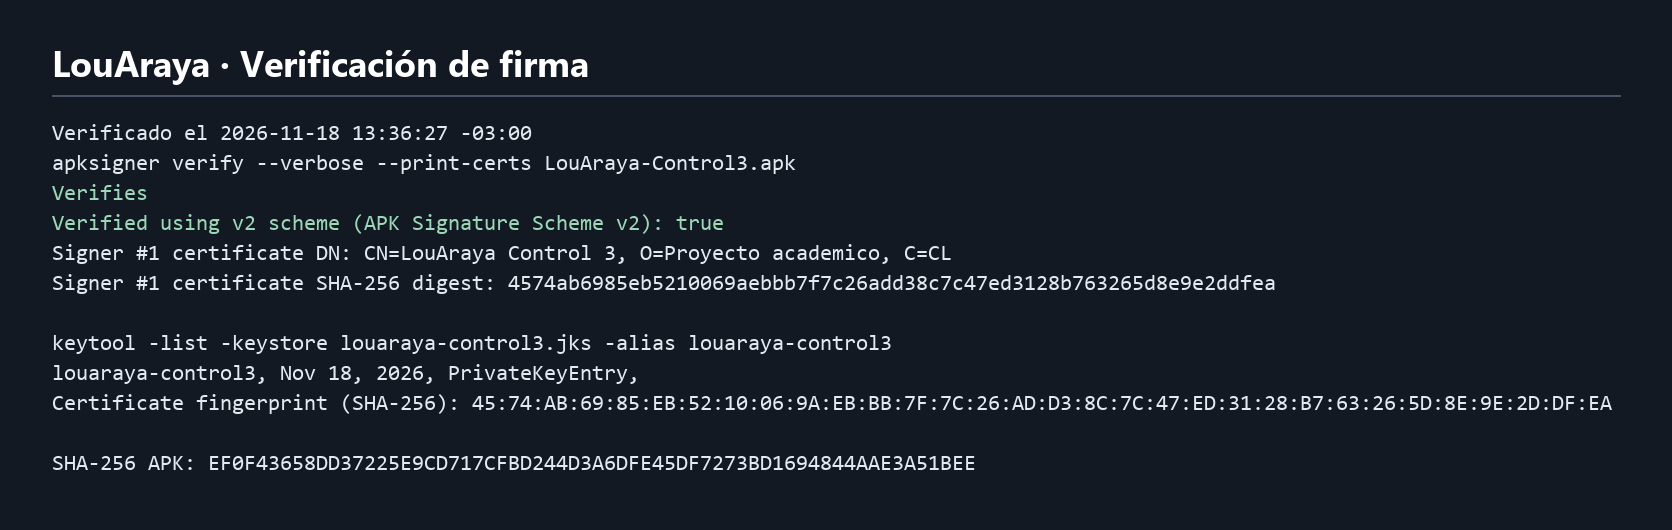
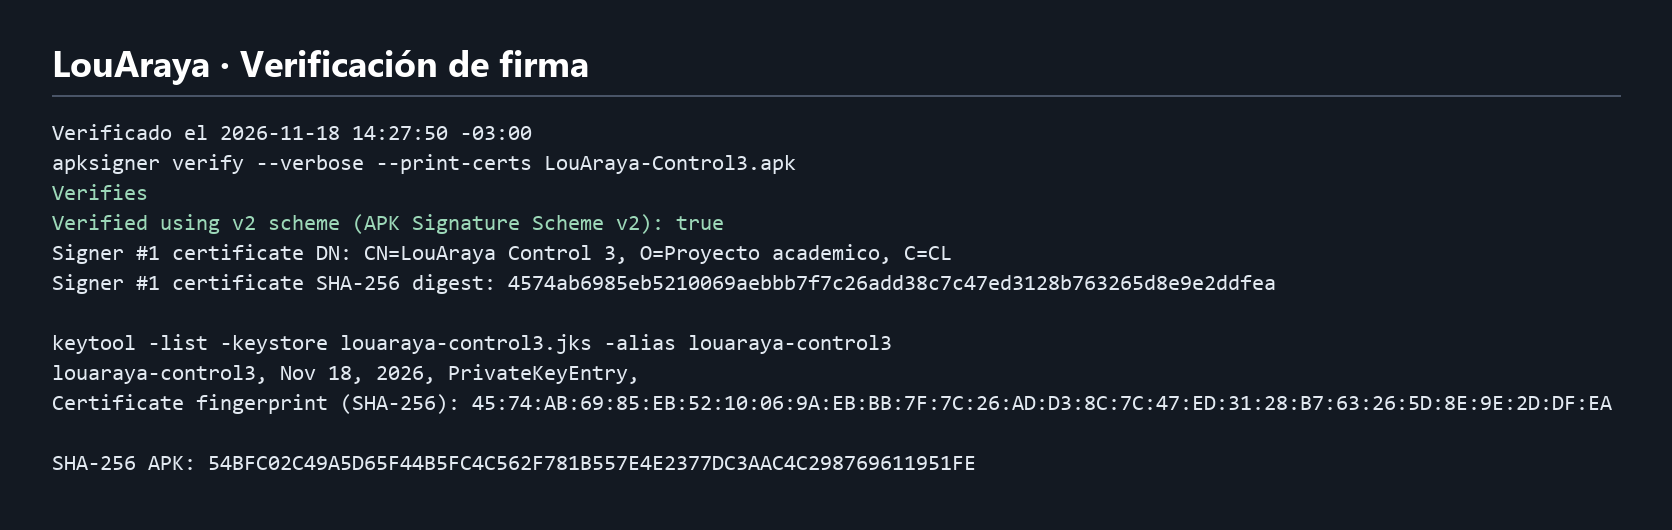
Control 3: documentar la revisión y el APK firmado

Changed region(s): [[0.1244, 0.8453, 0.5598, 0.9057], [0.2177, 0.2415, 0.2799, 0.2717]]

diff --git a/docs/CONTROL_3_DESARROLLO.md b/docs/CONTROL_3_DESARROLLO.md
@@ -83,6 +83,8 @@ La revisión de entrega corrigió tres casos que podían afectar el recorrido co
 - Una solicitud o un movimiento de stock con respuesta incierta conserva su referencia de reintento aunque venza la sesión. Al volver a entrar, el servidor puede reconocer el reintento y evitar un duplicado.
 - Una campaña dirigida por categoría también llega a los clientes que guardaron la colección anunciada. La bandeja y el envío push aplican la misma regla.
 
+La revisión pasó tres pruebas en un Motorola Edge 50 Fusion con Android 16. La variante de prueba conectada por ADB completó una reserva en horizontal con el botón visible, el recorrido de catálogo y solicitudes con cambio de estado y stock, y la lectura de una etiqueta QR. El APK firmado del paquete está configurado para el emulador.
+
 | Indicador | Peso | Evidencia |
 | --- | --- | --- |
 | IE 3.1.1 · Pantallas, formularios y navegación | 15 % | Se verificaron 16 casos en el emulador entre la ejecución inicial y las repeticiones de casos de interfaz. Incluyen acceso, registro, perfil, favoritos, cámara, QR, Ferias, formularios comerciales, editores del taller, avisos y el formulario de reserva en horizontal con teclado. |
